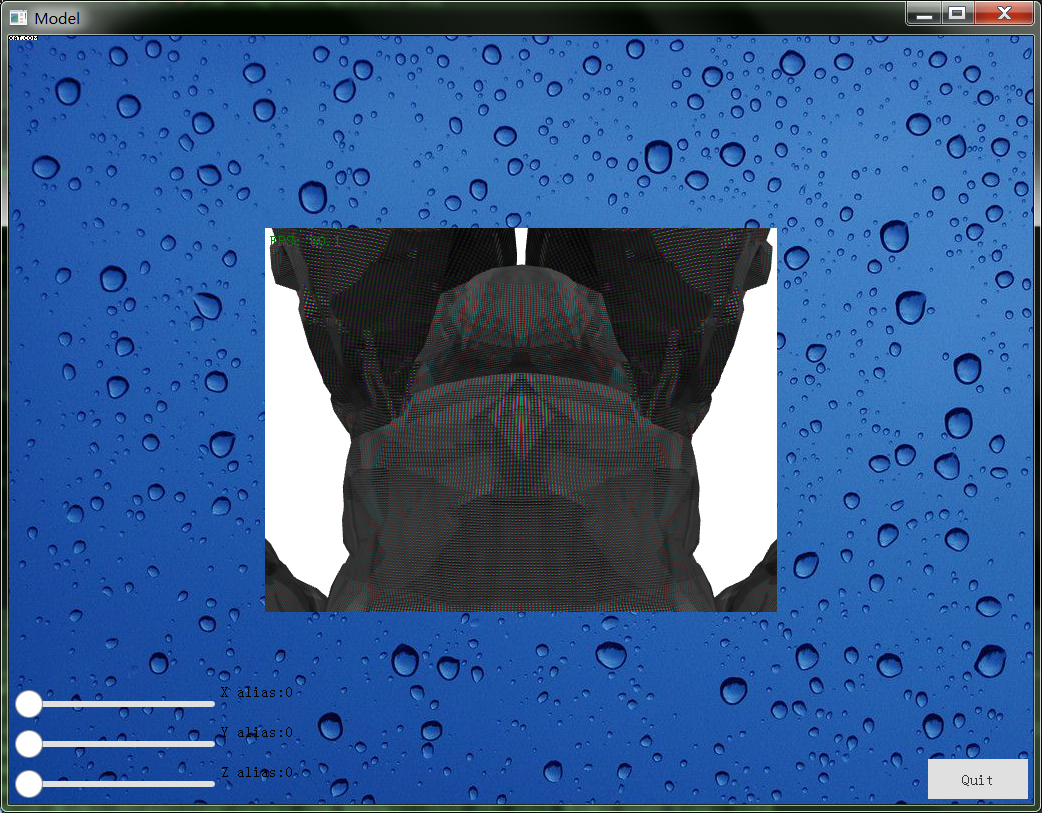
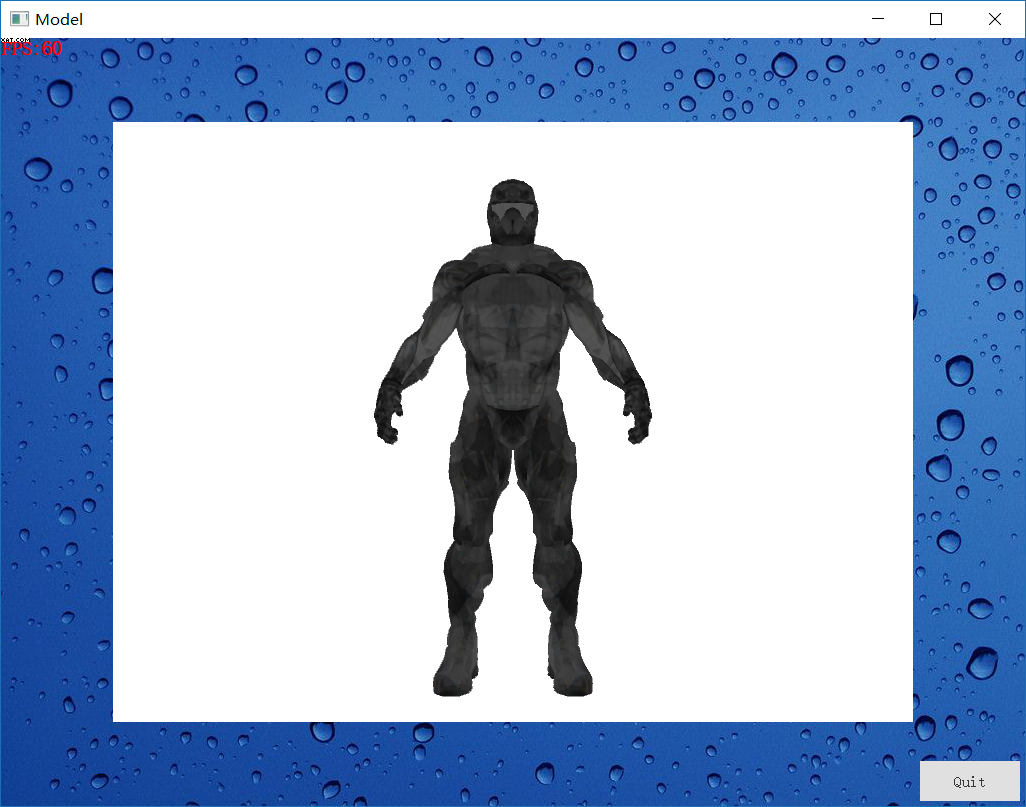
键盘W、S控制照相机前后位置

diff --git a/qml/main.qml b/qml/main.qml
@@ -9,29 +9,55 @@ Item {
     Image {
         anchors.fill: parent
         source:"qrc:/bg.jpg"
+
     }
+
+
     FBOItem {
         id: fboItem
         width: 800
         height: 600
         anchors.centerIn: parent
-        JCamera {
+        focus: true
+        Keys.enabled: true
+        Keys.onPressed: {
+            console.log("before position", camera.position)
+            camera.move(event.key)
+            console.log("after position", camera.position)
+        }
+        JKeyCamera {
+            id: camera
+            position: Qt.vector3d(0, 8, 22)
+            lookAt: Qt.vector3d(0, 8, 0)
+            up: Qt.vector3d(0, -1, 0)
+            aspectRatio: width / height
+            nearPlane: 1
+            farPlane: 1000
+            fieldOfView: 45
+            speed: 0.01
         }
         Model {
             source: "nanosuit/nanosuit.obj"
         }
     }
-    Button {
-        id:quitBtn
+
+    Row {
         anchors{
             bottom:parent.bottom
             right:parent.right
             margins: 5
         }
-        text:"Quit"
-        onClicked: Qt.quit()
+        spacing: 4
+        Button {
+            id:quitBtn
+
+            text:"Quit"
+            onClicked: Qt.quit()
+        }
     }
+
     Item {
+        id: fpsItem
         property int fps: 0
         property int frameCount: 0
 
@@ -49,8 +75,14 @@ Item {
             onTriggered: {
                 parent.fps = parent.frameCount
                 parent.frameCount = 0;
-                console.log("fps: ", parent.fps)
             }
         }
+
+    }
+    Text {
+        text: "FPS:" + fpsItem.fps
+        color: "red"
+        font.pixelSize: 20
+        font.bold: true
     }
 }

diff --git a/src/item/Camera.cpp b/src/item/Camera.cpp
@@ -1,5 +1,6 @@
 #include "Camera.h"
-
+#include <QKeyEvent>
+#include <QDebug>
 JCamera::JCamera(QObject *parent)
     : QObject( parent),
       m_position(0, 0, 10),
@@ -31,6 +32,7 @@ void JCamera::calculateViewMatrix()
 {
     m_viewMatrix.setToIdentity();
     m_viewMatrix.lookAt(m_position, m_lookAt, m_up);
+    qWarning() << m_viewMatrix;
 }
 
 void JCamera::calculateProjectMatrix()
@@ -142,7 +144,7 @@ void JCamera::setViewRect(const QRectF &viewRect)
 
 void JCamera::setAspectRatio(float aspectRatio)
 {
-//    qWarning("Floating point comparison needs context sanity check");
+    //    qWarning("Floating point comparison needs context sanity check");
     if (qFuzzyCompare(m_aspectRatio, aspectRatio))
         return;
 
@@ -154,7 +156,7 @@ void JCamera::setAspectRatio(float aspectRatio)
 
 void JCamera::setFarPlane(float farPlane)
 {
-//    qWarning("Floating point comparison needs context sanity check");
+    //    qWarning("Floating point comparison needs context sanity check");
     if (qFuzzyCompare(m_farPlane, farPlane))
         return;
 
@@ -166,7 +168,7 @@ void JCamera::setFarPlane(float farPlane)
 
 void JCamera::setNearPlane(float nearPlane)
 {
-//    qWarning("Floating point comparison needs context sanity check");
+    //    qWarning("Floating point comparison needs context sanity check");
     if (qFuzzyCompare(m_nearPlane, nearPlane))
         return;
 
@@ -178,7 +180,7 @@ void JCamera::setNearPlane(float nearPlane)
 
 void JCamera::setFieldOfView(float fieldOfView)
 {
-//    qWarning("Floating point comparison needs context sanity check");
+    //    qWarning("Floating point comparison needs context sanity check");
     if (qFuzzyCompare(m_fieldOfView, fieldOfView))
         return;
 
@@ -188,53 +190,47 @@ void JCamera::setFieldOfView(float fieldOfView)
     emit requestWindowUpdate();
 }
 
-
-JMouseCamera::JMouseCamera(QObject *parent) : JCamera(parent)
+void JKeyCamera::move(Qt::Key key)
 {
-
+    auto front = lookAt() - position();
+    switch(key) {
+    case Qt::Key_W: {
+        setPosition(position() + (front * speed()));
+        break;
+    }
+    case Qt::Key_S: {
+        setPosition(position() - (front * speed()));
+        break;
+    }
+        //Note: 不好用，有问题
+        //    case Qt::Key_A: {
+        //        auto direct = QVector3D::crossProduct(front, up());
+        //        direct.normalize();
+        //        direct = direct * speed();
+        //        setPosition(position() - direct);
+        //        break;
+        //    }
+        //    case Qt::Key_D: {
+        //        auto direct = QVector3D::crossProduct(front, up());
+        //        direct.normalize();
+        //        direct = direct * speed();
+        //        setPosition(position() + direct);
+        //        break;
+        //    }
+    default: break;
+    }
 }
 
-void JMouseCamera::startRotate()
+qreal JKeyCamera::speed() const
 {
-    m_prevPosition = m_position;
-    m_prevUp = m_up;
+    return m_speed;
 }
 
-void JMouseCamera::rotate(qreal x, qreal y)
+void JKeyCamera::setSpeed(qreal speed)
 {
-    QMatrix4x4 transformMatrix, rotateMatrix;
-    const auto yUp = QVector3D(0.0f, 1.0f, 0.0f);
-    auto side = QVector3D::crossProduct(m_lookAt - m_prevPosition, yUp).normalized();
-    rotateMatrix.rotate(-x, yUp);
-    rotateMatrix.rotate(-y * m_prevUp.y() / qAbs(m_prevUp.y()), side);
+    if (qFuzzyCompare(m_speed, speed))
+        return;
 
-    transformMatrix.translate(m_lookAt);
-    transformMatrix *= rotateMatrix;
-    transformMatrix.translate(-m_lookAt);
-
-    setPosition(transformMatrix * m_prevPosition);
-    setUp(rotateMatrix * m_up);
-}
-
-void JMouseCamera::moveForward(qreal step)
-{
-    QVector3D forward = m_lookAt - m_position;
-    qreal forwardLength = forward.length();
-    if (forwardLength < step) return ;
-    setPosition(m_position + forward.normalized() * step);
-}
-
-void JMouseCamera::startMove()
-{
-    m_vNormal = m_up.normalized();
-    m_hNormal = QVector3D::crossProduct( m_up, m_lookAt - m_position);
-    m_prevPosition = m_position;
-    m_prevLookAt = m_lookAt;
-}
-
-void JMouseCamera::move(qreal x, qreal y)
-{
-    QVector3D delta = m_hNormal * x + m_vNormal * y * (m_lookAt - m_position).length();
-    setPosition(m_prevPosition + delta);
-    setLookAt(m_prevLookAt + delta);
+    m_speed = speed;
+    emit speedChanged(m_speed);
 }

diff --git a/src/item/Render.cpp b/src/item/Render.cpp
@@ -10,9 +10,6 @@ Render::Render(JCamera *camera, Model *model) : m_camera(camera), m_model(model)
 }
 void Render::Init(const QSize &size)
 {
-    QTime time;
-    time.start();
-    qDebug() << "time start" << QThread::currentThreadId() << this;
     m_size = size;
     initializeOpenGLFunctions();
 #ifdef USE_GL_DEBUGGER
@@ -41,6 +38,7 @@ void Render::Paint()
     glClearColor(0.2f, 0.3f, 0.3f, 1.0f);
     m_program.bind();
     if (m_camera) {
+        m_camera->sync();
         m_mvpMatrix = m_camera->projectMatrix() * m_camera->viewMatrix() * m_ModelMatrix;
         m_program.setUniformValue("mvpMat", m_mvpMatrix);
     }
@@ -71,10 +69,7 @@ void Render::initShader()
 void Render::initMatrixs()
 {
     m_ModelMatrix.setToIdentity();
-    //    m_ModelMatrix.translate(0.0f, 1.0f, 0.0f);
-    m_ModelMatrix.scale(0.4f, 0.4f, 0.4f);
     if (m_camera) {
-        m_camera->setFarPlane(100);
         m_camera->sync();
     }
 }

diff --git a/src/item/Camera.h b/src/item/Camera.h
@@ -92,20 +92,17 @@ protected:
     bool m_viewMatrixIsDirty = false;
     bool m_projectMatrixIsDirty = false;
 };
-class JMouseCamera : public JCamera
-{
+class JKeyCamera : public JCamera {
     Q_OBJECT
+    Q_PROPERTY(qreal speed READ speed WRITE setSpeed NOTIFY speedChanged)
 public:
-    JMouseCamera(QObject *parent = nullptr);
-    Q_INVOKABLE void startRotate();
-    Q_INVOKABLE void rotate(qreal x, qreal y);
-    Q_INVOKABLE void moveForward(qreal step);
-    Q_INVOKABLE void startMove();
-    Q_INVOKABLE void move(qreal x, qreal y);
-protected:
-    QVector3D m_prevPosition;
-    QVector3D m_prevLookAt;
-    QVector3D m_prevUp;
-    QVector3D m_hNormal;
-    QVector3D m_vNormal;
+    Q_INVOKABLE void move(Qt::Key key);
+
+    qreal speed() const;
+public slots:
+    void setSpeed(qreal speed);
+signals:
+    void speedChanged(qreal speed);
+private:
+    qreal m_speed = 0.0f;
 };

diff --git a/src/main.cpp b/src/main.cpp
@@ -24,8 +24,8 @@ int main(int argc, char *argv[])
 
     qmlRegisterType<FBOItem>("J3D", 1, 0, "FBOItem");
     qmlRegisterType<JCamera>("J3D", 1, 0, "JCamera");
+    qmlRegisterType<JKeyCamera>("J3D", 1, 0, "JKeyCamera");
     qmlRegisterType<Model>("J3D", 1, 0, "Model");
-    qmlRegisterType<JMouseCamera>("J3D", 1, 0, "JMouseCamera");
     QQuickView view;
     view.setSource(QUrl(QLatin1Literal("qrc:/main.qml")));
     view.setResizeMode(QQuickView::SizeViewToRootObject);
